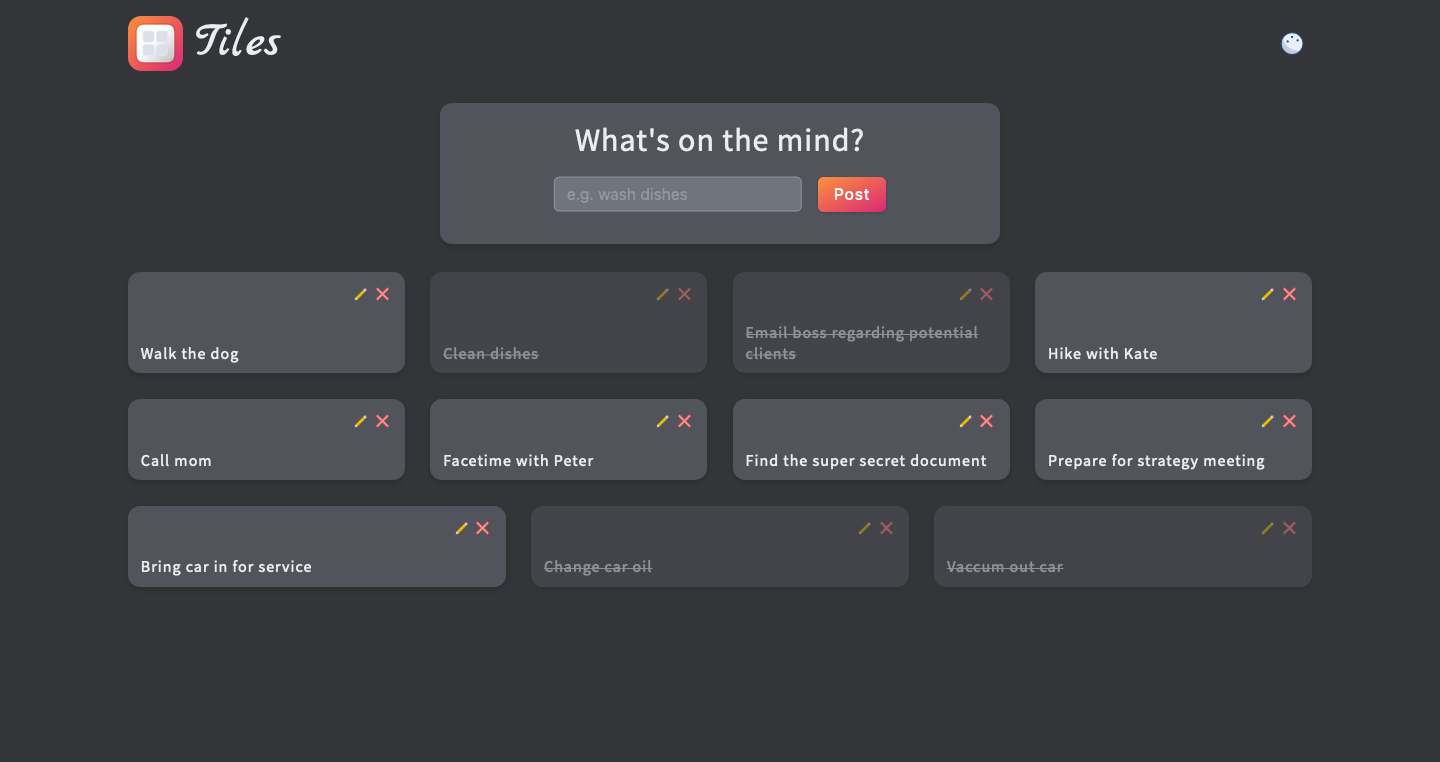
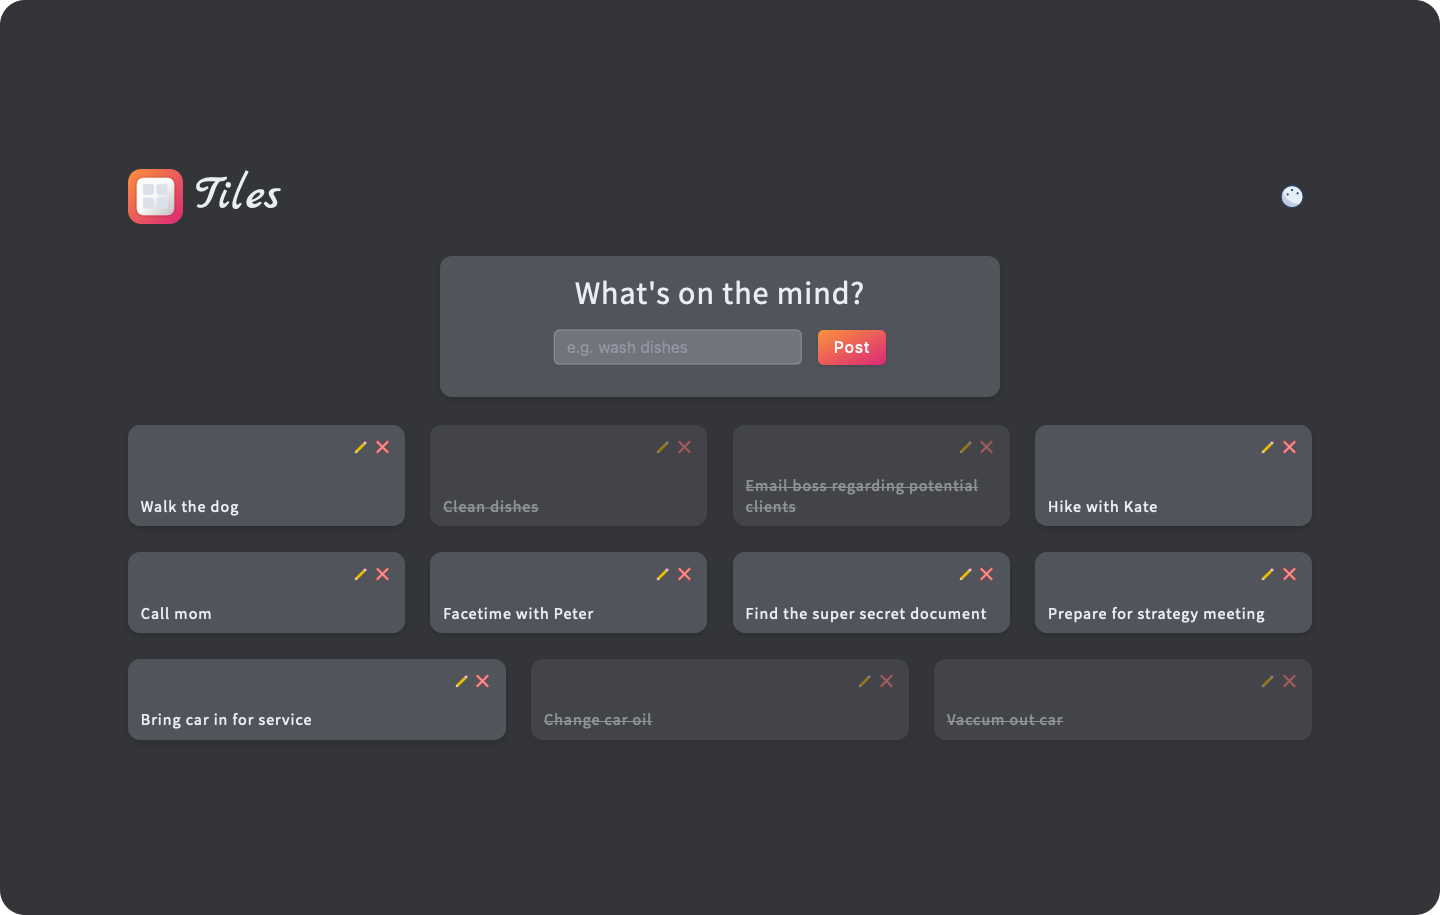
add: repo images

diff --git a/src/public/css/main.css b/src/public/css/main.css
@@ -181,7 +181,7 @@ App Container
 	height: auto;
 	max-width: var(--max-width);
 	width: 100%;
-	padding: 1rem;
+	padding: 2rem 1rem;
 
 	margin: auto;
 }
